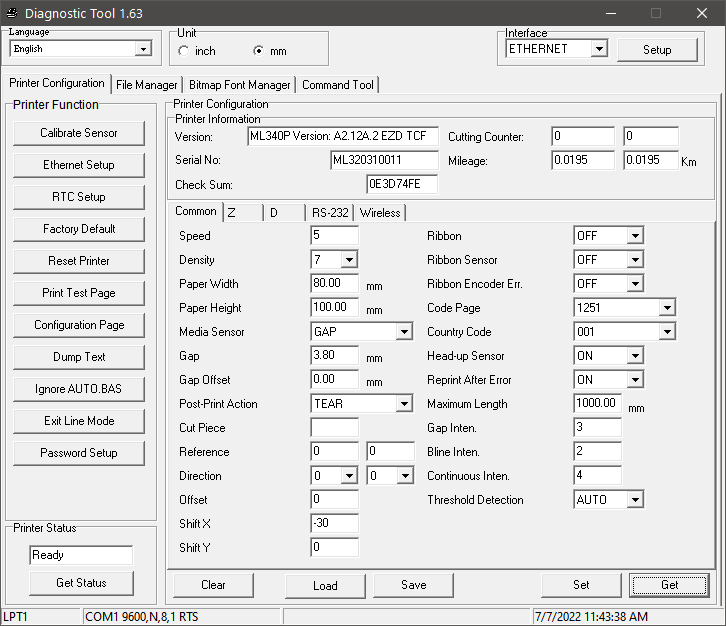
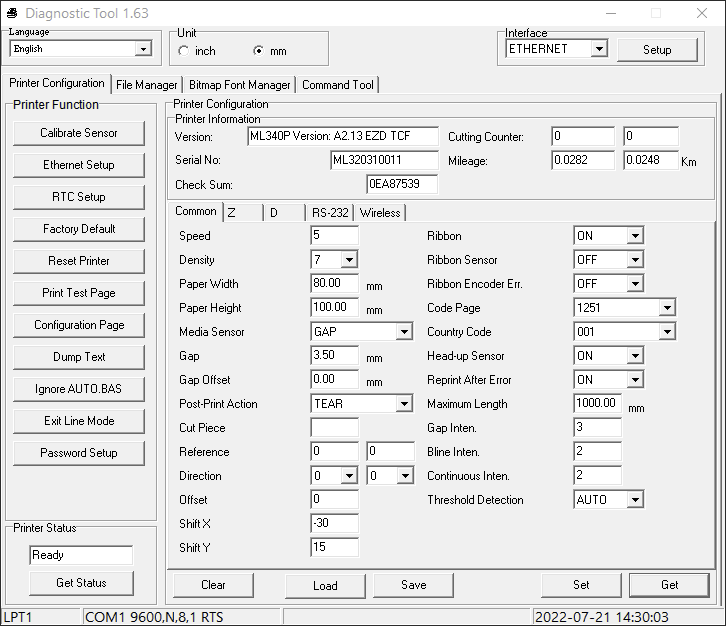
Updated Print settings

diff --git a/CHANGELOG.md b/CHANGELOG.md
@@ -6,6 +6,10 @@ and this project adheres to [Semantic Versioning](https://semver.org/spec/v2.0.0
 
 ## [Unreleased]
 
+## [0.1.068] - 2022-07-21
+### Changed
+- [Print settings → Diagnostic Tools](Print%20settings/Diagnostic%20Tools.md)
+
 ## [0.1.063] - 2022-07-07
 ### Added
 - [Print settings → Diagnostic Tools](Print%20settings/Diagnostic%20Tools.md)
